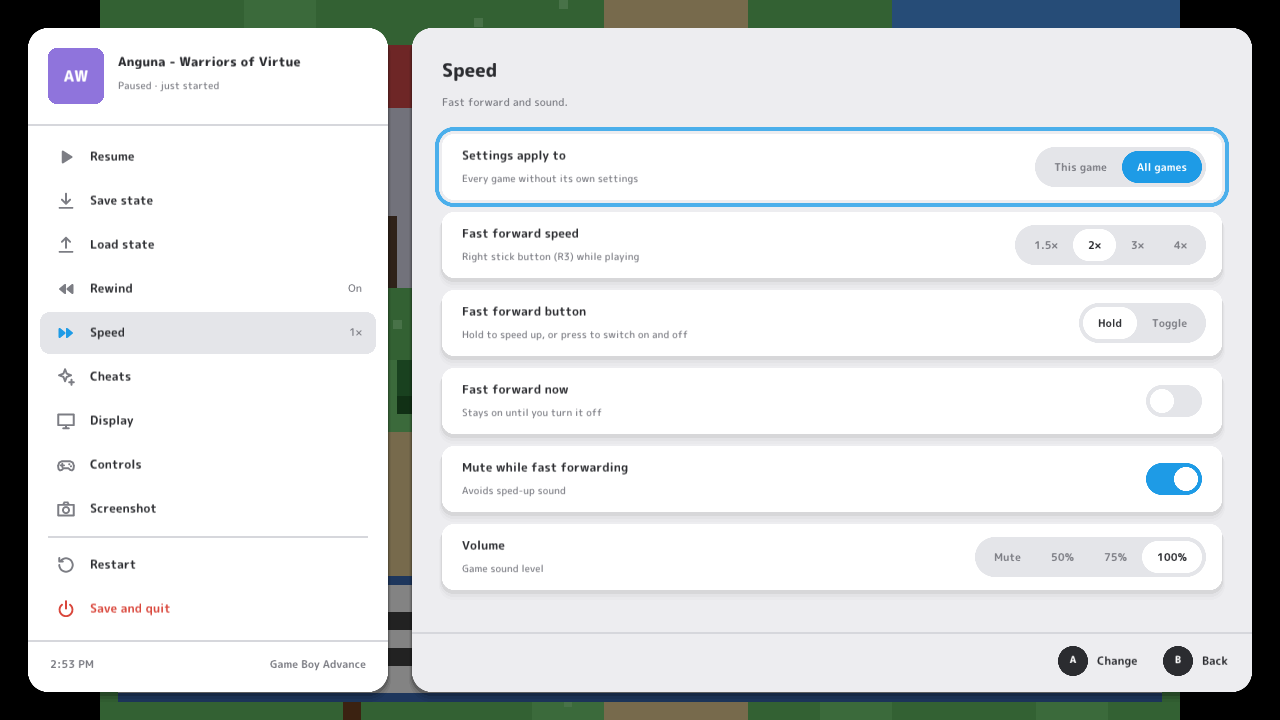
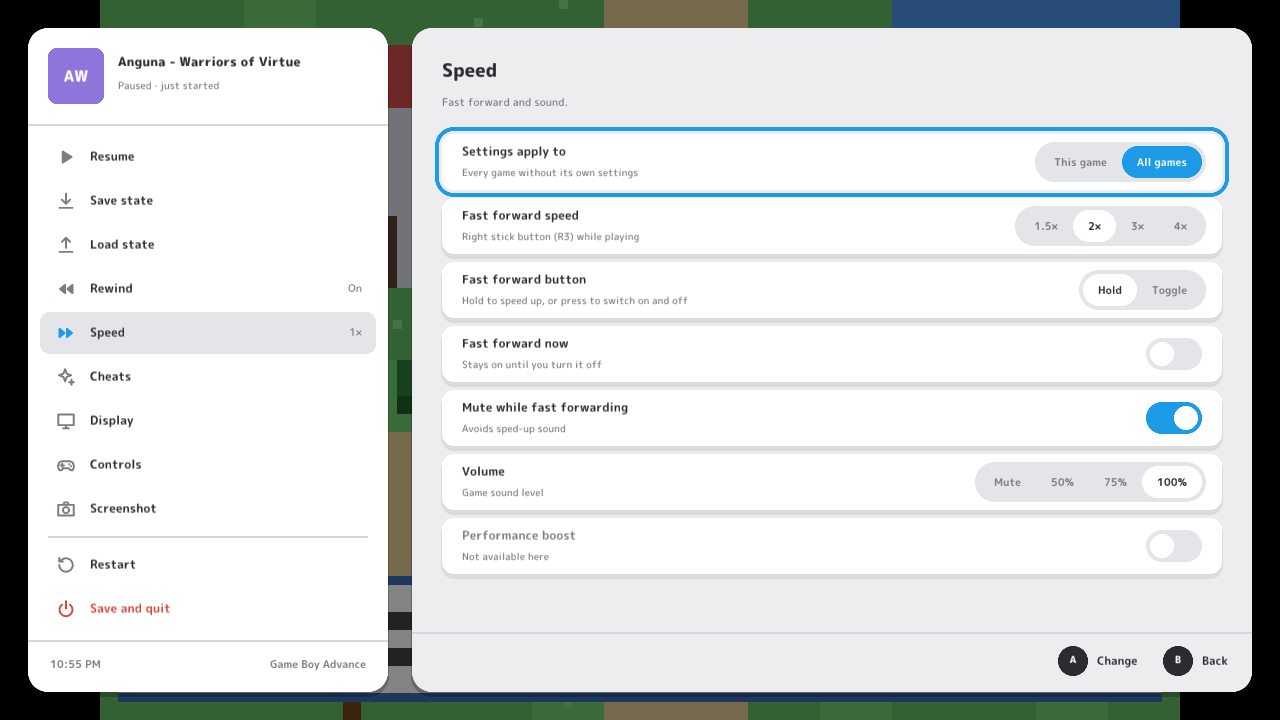
Docs: 0.5.17 screenshots, known issues and version notes
README captures retaken from test build 0.5.17 in the Windows preview with
placeholder files named after free homebrew titles (no game data, no cover art).
Known issues and v0.5 notes cover 0.5.14-0.5.17: the save fix, launch card,
ROM hack detection and cover matching.

Changed region(s): [[0.3125, 0.1528, 0.9688, 0.825], [0.0312, 0.9167, 0.0938, 0.9472]]

diff --git a/README.md b/README.md
@@ -10,20 +10,20 @@ AI1 Emu brings a Home screen that picks up where you left off, a searchable libr
 
 ## See the interface
 
-<img src="docs/images/home.png" alt="Actual v0.5.0 Home screen from the Windows UI preview" width="100%">
+<img src="docs/images/home.png" alt="Actual v0.5.17 Home screen from the Windows UI preview" width="100%">
 
 <details><summary>Library, in-game menu, themes and controls</summary>
 
-<img src="docs/images/library.png" alt="Actual v0.5.0 Library screen from the Windows UI preview" width="100%">
-<img src="docs/images/game-menu.png" alt="Actual v0.5.0 in-game menu, Save state page, from the Windows UI preview" width="100%">
-<img src="docs/images/game-menu-speed.png" alt="Actual v0.5.0 in-game menu, Speed page, from the Windows UI preview" width="100%">
-<img src="docs/images/settings.png" alt="Actual v0.5.0 Themes settings from the Windows UI preview" width="100%">
-<img src="docs/images/home-black.png" alt="Actual v0.5.0 Home screen in the Black theme from the Windows UI preview" width="100%">
-<img src="docs/images/controls.png" alt="Actual v0.5.0 Controls screen from the Windows UI preview" width="100%">
+<img src="docs/images/library.png" alt="Actual v0.5.17 Library screen from the Windows UI preview" width="100%">
+<img src="docs/images/game-menu.png" alt="Actual v0.5.17 in-game menu, Save state page, from the Windows UI preview" width="100%">
+<img src="docs/images/game-menu-speed.png" alt="Actual v0.5.17 in-game menu, Speed page, from the Windows UI preview" width="100%">
+<img src="docs/images/settings.png" alt="Actual v0.5.17 Themes settings from the Windows UI preview" width="100%">
+<img src="docs/images/home-black.png" alt="Actual v0.5.17 Home screen in the Black theme from the Windows UI preview" width="100%">
+<img src="docs/images/controls.png" alt="Actual v0.5.17 Controls screen from the Windows UI preview" width="100%">
 
 </details>
 
-These v0.5.0 captures come from the Windows preview using the app's shared SDL2 renderer, with free homebrew titles and no cover art. The preview does not emulate games: the in-game picture is generated. v0.5.0 is built and host-tested but not yet released or tested on a Switch; see [v0.5.0 notes](docs/V0.5.0.md).
+These captures come from test build 0.5.17 running in the Windows preview (captured 2026-11-25 with `AI1Emu-Preview.exe --capture`), which uses the app's shared SDL2 drawing code. The library holds placeholder files named after free homebrew titles, with no cover art; play times are sample data. The preview does not emulate games: the in-game picture is generated. See the [v0.5 notes](docs/V0.5.0.md) and [known issues](docs/KNOWN-ISSUES.md).
 
 ## Download
 
@@ -35,7 +35,7 @@ These v0.5.0 captures come from the Windows preview using the app's shared SDL2 
 
 Use the complete package for a fresh installation. The standard in-app update channel remains on 0.3.5. Downloads are currently hosted on Cloudflare.
 
-The v0.5 builds described below (latest: test build 0.5.13) are on a private test channel and are not a public release yet. See [known issues](docs/KNOWN-ISSUES.md).
+The v0.5 builds described below (latest: test build 0.5.17) are on a private test channel and are not a public release yet. See [known issues](docs/KNOWN-ISSUES.md).
 
 ## Install
 

diff --git a/docs/KNOWN-ISSUES.md b/docs/KNOWN-ISSUES.md
@@ -1,6 +1,6 @@
 # Known issues
 
-Applies to **test build 0.5.13** (private test channel), last updated 2026-11-25.
+Applies to **test build 0.5.17** (private test channel), last updated 2026-11-25.
 The public downloads are still stable 0.3.5 and UI preview 0.4.0; their issues are in
 their own release notes.
 
@@ -11,6 +11,26 @@ means nobody has checked it on a Switch yet.
 
 ## All consoles
 
+- **Game saves in 0.5.16 and earlier: only the first save of a game reached the save
+  file.** Saves were written to `<save>.tmp` and renamed over the save, which the Switch
+  refuses when the save already exists, so later progress stayed in the `.tmp` file and
+  "Game save could not be written" appeared (reported; save states were not affected).
+  0.5.17 replaces saves safely (the old one is kept as `.previous`) and, when loading,
+  uses a `.tmp` that is newer than the save. Fixed in the code and host-tested; **not yet
+  confirmed on a Switch**. Do not delete `.tmp` files in `saves/` before updating.
+- **Starting a game** shows a "Starting..." card at once (0.5.16). Consoles other than
+  GBA/GB then hand over to a separate emulator program, and the screen is blank while
+  the Switch loads it (seconds for large emulators such as Dekopon). Not measured yet;
+  launch steps are timed in `logs/app.log` (previous run in `app.old.log`).
+- **ROM hacks** (0.5.14+) are recognised when the header's game code belongs to a known
+  release but the file name does not match that release; the details panel shows the
+  release it is based on. A hack named exactly like the original release is treated as
+  the original.
+- **Your own covers** (0.5.15+) are matched to games by exact file name or title, then by a
+  loose name (case, accents, brackets and version numbers ignored), then allowing a typo of
+  up to 2 letters, then by partial names when only one cover fits. A wrong match is
+  possible in rare cases; naming the cover exactly like the ROM file always wins.
+  Pictures whose shape differs from the tile are shown whole over a dimmed copy (0.5.17).
 - **Full-memory mode is required for DS, DSi, N64 and 3DS.** Open AI1 Emu as an
   application (a forwarder, or hold R while starting a game), not from the album.
 - **Covers are matched by file name.** Missing covers are downloaded from
@@ -29,8 +49,8 @@ means nobody has checked it on a Switch yet.
   writes a sys-clk profile with CPU 1785 MHz and memory 1600 MHz. These are within
   Nintendo's own limits but use more battery and run warmer. Its effect is **not yet
   measured** in a controlled before/after test.
-- **Screenshots in the README** are v0.5.0 captures from the Windows preview. Later
-  layout changes (console filter row, downloaded covers) are not shown.
+- **Screenshots in the README** are 0.5.17 captures from the Windows preview with
+  placeholder homebrew titles; they show no cover art and no Switch hardware.
 
 ## Nintendo 3DS (Dekopon v3.0.0-RC1, unmodified release)
 

diff --git a/docs/V0.5.0.md b/docs/V0.5.0.md
@@ -144,6 +144,15 @@ All of these went to the private test channel only. Known problems are tracked i
   own title (CPU 1785 MHz, memory 1600 MHz) when a 3DS game starts with the boost on, and
   removes it when the app opens again. A sys-clk profile you made yourself is never
   changed.
+- **0.5.14:** ROM hacks keep their own names (a header game code only names a game when the
+  file name looks like that release); your own covers may be named after the title.
+- **0.5.15:** ROM hacks are detected and the details panel shows the release they are based
+  on. Covers are matched by loose name, small typos and partial names.
+- **0.5.16:** a "Starting..." card appears the moment a game is chosen, instead of a frozen
+  library. Launch steps are timed in `logs/app.log`; the previous run stays in `app.old.log`.
+- **0.5.17:** game saves after the first now reach the save file on every console (a rename
+  onto an existing save failed on the Switch); a newer leftover `.tmp` save is loaded so
+  stuck progress returns. Covers are shown whole instead of cropped.
 
 ## Files and arguments
 
